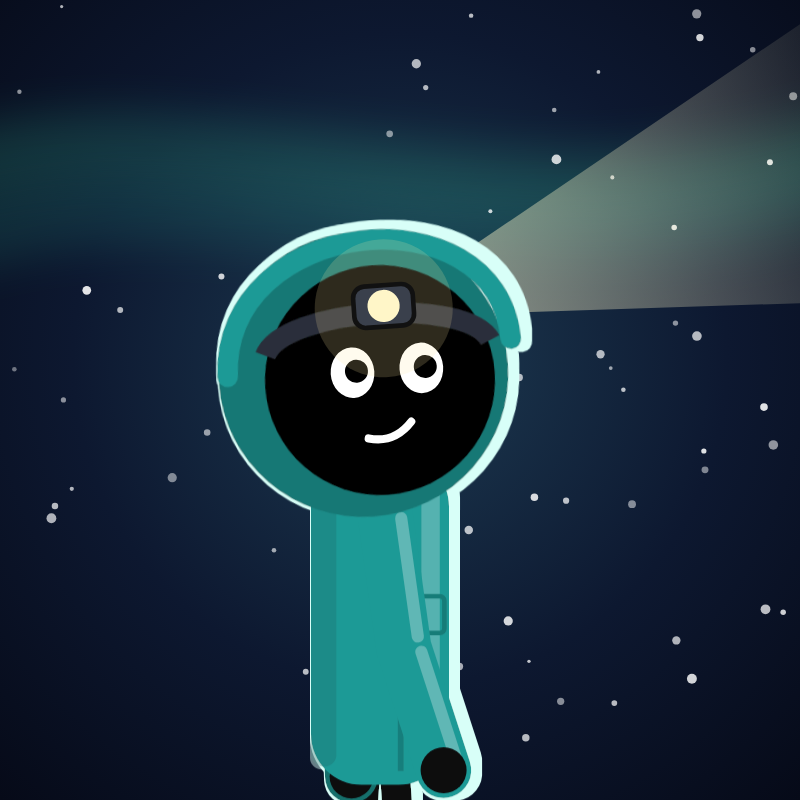
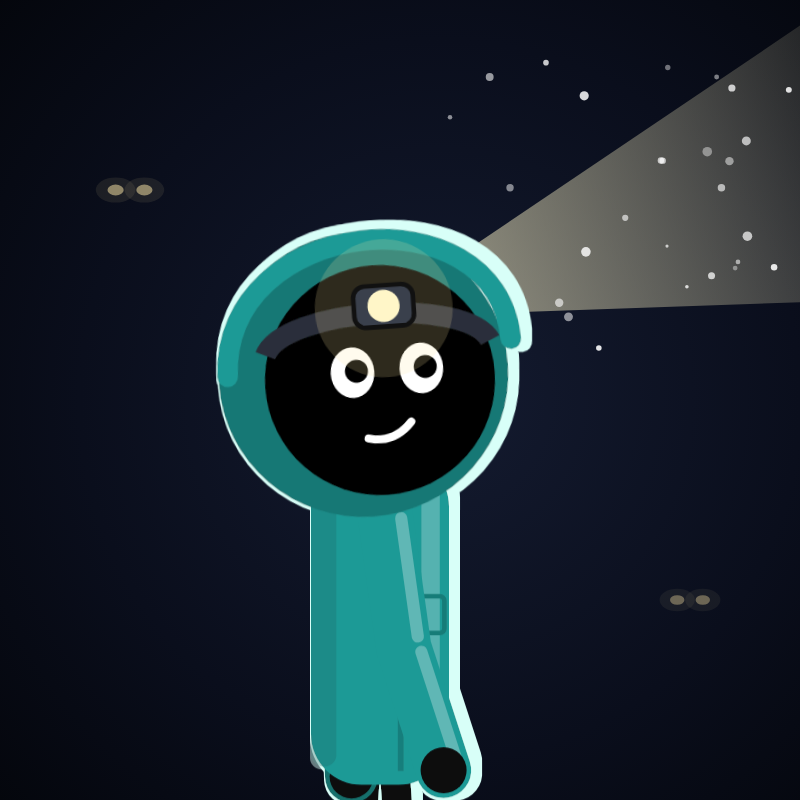
Channel art: neutral darkness background, name FONARIK in the beam
Claude-Session: https://claude.ai/code/session_01SBpnoaer8VT4U5x2BhZWox

diff --git a/whatif/src/station/Brand.tsx b/whatif/src/station/Brand.tsx
@@ -24,48 +24,73 @@ const BeamCone: React.FC<{x: number; y: number; ang: number; len: number; w: num
 	</g>
 );
 
+// нейтральный фон «темнота»: едва видные силуэты разных историй и глаза во тьме
+const Eyes: React.FC<{x: number; y: number; s?: number; o?: number}> = ({x, y, s = 1, o = 0.8}) => (
+	<g transform={`translate(${x},${y}) scale(${s})`} opacity={o}>
+		{[-1, 1].map((k) => <g key={k}><ellipse cx={k * 16} cy={0} rx={9} ry={6} fill="#ffe9a8" /><ellipse cx={k * 16} cy={0} rx={22} ry={14} fill="#ffe9a8" opacity={0.15} /></g>)}
+	</g>
+);
+const Dark: React.FC<{w: number; h: number}> = ({w, h}) => (
+	<g>
+		<defs>
+			<radialGradient id="dk" cx="0.55" cy="0.5" r="0.75"><stop offset="0" stopColor="#141b30" /><stop offset="0.6" stopColor="#0a0e1c" /><stop offset="1" stopColor="#04060c" /></radialGradient>
+			<linearGradient id="fl" x1="0" y1="0" x2="0" y2="1"><stop offset="0" stopColor="#0f1426" /><stop offset="1" stopColor="#05070e" /></linearGradient>
+		</defs>
+		<rect width={w} height={h} fill="url(#dk)" />
+	</g>
+);
+
 export const Avatar: React.FC = () => {
 	const s = 2.3, x = 380, floor = 380 + 321 * s;
 	return (
-		<AbsoluteFill style={{background: 'radial-gradient(circle at 50% 45%, #1d3b52 0%, #0d1830 55%, #060a18 100%)'}}>
+		<AbsoluteFill style={{background: '#06080f'}}>
 			<svg width={800} height={800} viewBox="0 0 800 800">
-				{/* северное сияние */}
-				{[0, 1].map((k) => <path key={k} d={`M -50 ${170 + k * 70} C 200 ${90 + k * 60}, 500 ${260 + k * 40}, 850 ${140 + k * 50}`} stroke={k ? '#2fb39a' : '#3fe0a8'} strokeWidth={70} fill="none" opacity={0.16} style={{filter: 'blur(22px)'}} />)}
-				<Snow n={70} w={800} h={800} seed="av" />
-				<BeamCone x={x + 14} y={floor - 321 * s - 31 * s} ang={-18} len={560} w={170} id="avb" o={0.55} />
+				<Dark w={800} h={800} />
+				<Eyes x={130} y={190} s={0.9} o={0.55} />
+				<Eyes x={690} y={600} s={0.8} o={0.4} />
+				<BeamCone x={x + 14} y={floor - 321 * s - 31 * s} ang={-18} len={600} w={180} id="avb" o={0.6} />
+				<Snow n={40} w={420} h={300} x0={420} y0={60} seed="dust" />
 				<Stickman id="av" x={x} y={floor - 157 * s} scale={s} facing={1} pose={{...POSES.stand, head: -4}} {...hero} expr="normal" mouth="smirk" look={[0.5, -0.1]} faceTurn={0.3} blink={0} />
-				<circle cx={400} cy={400} r={392} fill="none" stroke="#5ee0da" strokeWidth={6} opacity={0.0} />
 			</svg>
 		</AbsoluteFill>
 	);
 };
 
 export const Banner: React.FC = () => {
-	const s = 1.2, hx = 1280, floor = 905;
+	const s = 1.15, hx = 1720, floor = 980;
 	const [lx, ly] = [hx - 6 * s, floor - 157 * s - 164 * s - 31 * s];
 	return (
-		<AbsoluteFill style={{background: '#060a18'}}>
-			{/* мир 1920×1080 растянут на 2560×1440: x −320…2240, y −180…1260 */}
-			<svg width={2560} height={1440} viewBox="-320 -180 2560 1440">
-				<NightSky T={3} />
-				<Forest y={800} />
-				<Ground />
-				<g transform="translate(800,0)"><Station T={3} /></g>
-				{/* следы от леса к Фонарику */}
-				{Array.from({length: 9}).map((_, i) => <ellipse key={i} cx={-200 + i * 150 + (i % 2) * 20} cy={1010 - i * 10} rx={22} ry={8} fill="#8a98b0" opacity={0.8} />)}
-				<BeamCone x={lx} y={ly} ang={192} len={1100} w={260} id="bnb" o={0.5} />
-				<ellipse cx={hx} cy={floor + 4} rx={80 * s} ry={13 * s} fill="#000" opacity={0.25} />
+		<AbsoluteFill style={{background: '#06080f'}}>
+			<svg width={2560} height={1440} viewBox="0 0 2560 1440">
+				<Dark w={2560} h={1440} />
+				<rect y={floor} width={2560} height={1440 - floor} fill="url(#fl)" />
+				{/* силуэты историй в темноте */}
+				<g opacity={0.5}>
+					{/* приоткрытая дверь со светом */}
+					<rect x={180} y={560} width={190} height={420} fill="#0c1020" stroke="#1c2440" strokeWidth={6} />
+					<polygon points="345,560 370,560 370,980 345,980" fill="#ffd27a" opacity={0.5} />
+					<polygon points="370,980 345,980 300,1180 480,1180" fill="#ffd27a" opacity={0.08} />
+					{/* окно с луной */}
+					<rect x={2250} y={330} width={160} height={200} fill="#0d1428" stroke="#1c2440" strokeWidth={6} />
+					<path d="M 2330 330 L 2330 530 M 2250 430 L 2410 430" stroke="#1c2440" strokeWidth={6} />
+					<circle cx={2380} cy={370} r={18} fill="#c8d4f0" opacity={0.6} />
+					{/* лестница вверх */}
+					{Array.from({length: 7}).map((_, i) => <rect key={i} x={2160 + i * 40} y={980 - (i + 1) * 46} width={60} height={46} fill="#0c1020" stroke="#1c2440" strokeWidth={4} />)}
+					{/* фонарный столб */}
+					<rect x={60} y={300} width={12} height={680} fill="#141a30" /><rect x={40} y={290} width={60} height={18} fill="#141a30" />
+				</g>
+				<Eyes x={560} y={420} o={0.7} />
+				<Eyes x={2080} y={820} s={0.8} o={0.55} />
+				<Eyes x={260} y={1150} s={0.7} o={0.4} />
+				{/* луч фонаря выхватывает имя */}
+				<BeamCone x={lx} y={ly} ang={188} len={1500} w={330} id="bnb" o={0.55} />
+				<Snow n={90} w={1100} h={420} x0={560} y0={430} seed="dust" />
+				<ellipse cx={hx} cy={floor + 4} rx={80 * s} ry={13 * s} fill="#000" opacity={0.5} />
 				<Stickman id="bn" x={hx} y={floor - 157 * s} scale={s} facing={-1} pose={{...POSES.stand, armF: [40, 50]}} {...hero} expr="normal" mouth="smirk" look={[-0.6, -0.1]} faceTurn={0.3} blink={0} />
-				<Snow n={160} w={2560} h={1440} x0={-320} y0={-180} seed="bn" />
-				{/* надпись в луче фонаря — в безопасной зоне */}
-				<g style={{filter: 'drop-shadow(0 0 24px rgba(255,240,180,0.55))'}}>
-					<text x={680} y={500} textAnchor="middle" fontFamily={FONT} fontWeight={900} fontSize={112} fill="#fff6dc">ЧТО ЕСЛИ ТЫ…</text>
+				<g style={{filter: 'drop-shadow(0 0 30px rgba(255,236,170,0.6))'}}>
+					<text x={1050} y={760} textAnchor="middle" fontFamily={FONT} fontWeight={900} fontSize={176} fill="#fff6dc" letterSpacing={4}>ФОНАРИК</text>
 				</g>
-				<text x={650} y={585} textAnchor="middle" fontFamily={FONT} fontWeight={800} fontSize={46} fill="#9fe8e4">страшные истории от первого лица</text>
-				<g transform="translate(650,660)">
-					<rect x={-200} y={-34} width={400} height={64} rx={32} fill="#11142c" stroke="#ffc94a" strokeWidth={4} />
-					<text y={12} textAnchor="middle" fontFamily={FONT} fontWeight={900} fontSize={34} fill="#fff">ТЫ — ГЛАВНЫЙ ГЕРОЙ</text>
-				</g>
+				<text x={1050} y={850} textAnchor="middle" fontFamily={FONT} fontWeight={800} fontSize={50} fill="#9fe8e4">посвечу туда, куда страшно смотреть</text>
 			</svg>
 		</AbsoluteFill>
 	);
